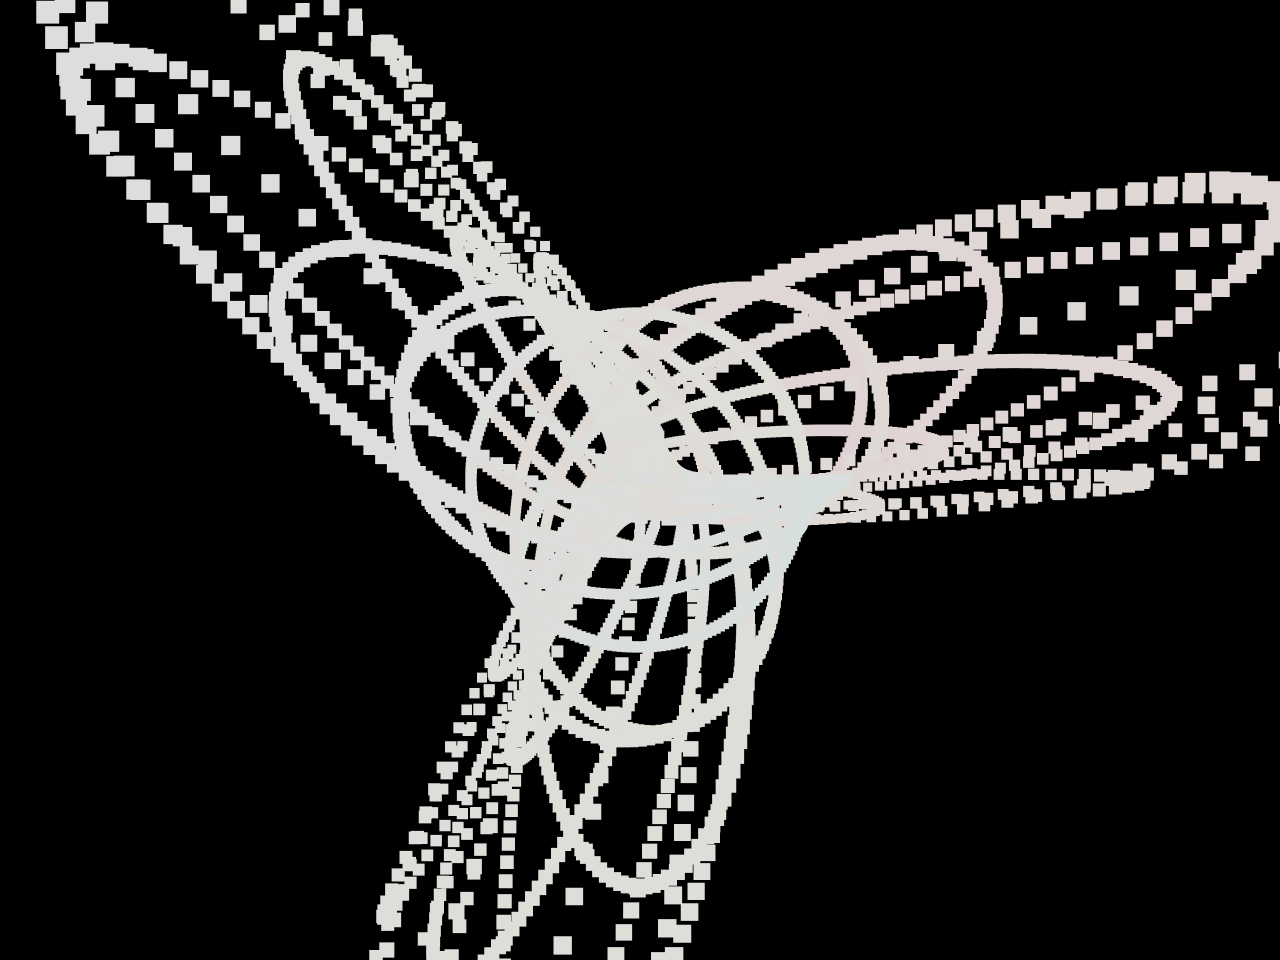
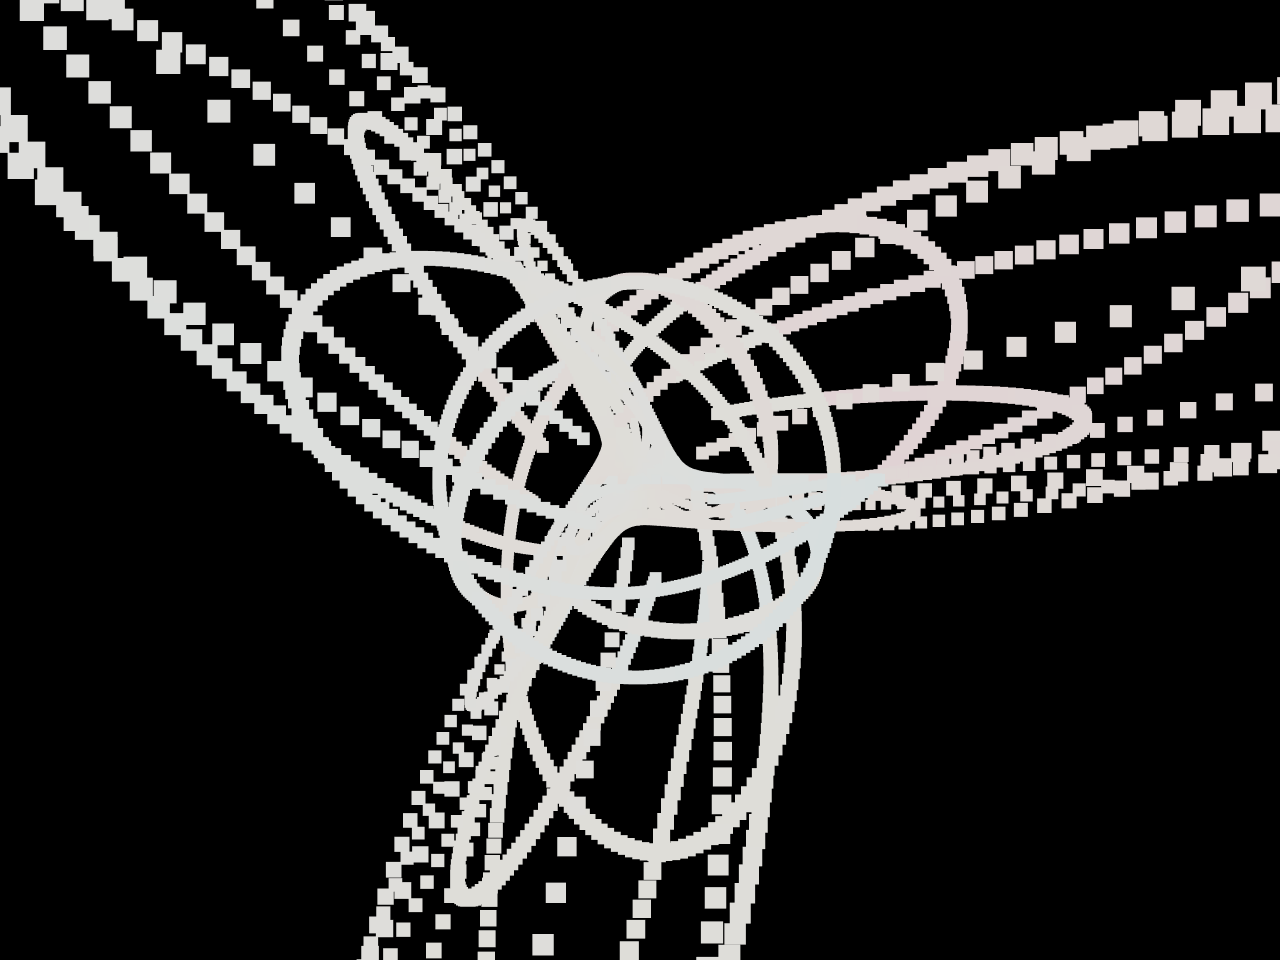
Open Boy trail center; zoom framing more.

Changed region(s): [[0.0, 0.0, 1.0, 1.0]]

diff --git a/packages/frontend/src/utils/boySurface.ts b/packages/frontend/src/utils/boySurface.ts
@@ -242,14 +242,14 @@ export function sampleBoyScanline(nu = 160, nv = 96): BoyCloud {
 		}
 	}
 	centerAndScale(positions, TARGET_R_TRAIL)
-	return thinNearOrigin(positions, colors, 0.18)
+	return thinNearOrigin(positions, colors, 0.32)
 }
 
 /**
  * Constant-u / constant-v curves as a point wire.
  * Fewer curves than a dense grid — keeps the triple-point open instead of a white clump.
  */
-export function sampleBoyIsolines(nu = 22, nv = 22, samples = 220): BoyCloud {
+export function sampleBoyIsolines(nu = 16, nv = 16, samples = 240): BoyCloud {
 	const count = (nu + nv) * samples
 	const positions = new Float32Array(count * 3)
 	const colors = new Float32Array(count * 3)
@@ -283,7 +283,7 @@ export function sampleBoyIsolines(nu = 22, nv = 22, samples = 220): BoyCloud {
 		}
 	}
 	centerAndScale(positions, TARGET_R_TRAIL)
-	return thinNearOrigin(positions, colors, 0.22)
+	return thinNearOrigin(positions, colors, 0.42)
 }
 
 /** Drop verts inside a ball so the triple-point does not paint solid white. */

diff --git a/packages/frontend/src/pages/misc/boy_jury_isolines.tsx b/packages/frontend/src/pages/misc/boy_jury_isolines.tsx
@@ -49,7 +49,7 @@ const BoyJuryIsolines = () => {
 			numParticles={cloud.count}
 			pointSize={0.055}
 			tick={tick}
-			cameraPosition={[0, 0, 2.85]}
+			cameraPosition={[0, 0, 2.45]}
 			autoRotate={!isScreenshotMode()}
 			autoRotateSpeed={0.28}
 		/>

diff --git a/packages/frontend/src/pages/misc/boy_jury_lines.tsx b/packages/frontend/src/pages/misc/boy_jury_lines.tsx
@@ -59,7 +59,7 @@ const BoyJuryLines = () => {
 			lineOpacity={0.92}
 			autoRotate={!isScreenshotMode()}
 			autoRotateSpeed={0.32}
-			cameraPosition={[0, 0, 2.85]}
+			cameraPosition={[0, 0, 2.45]}
 		/>
 	)
 }
